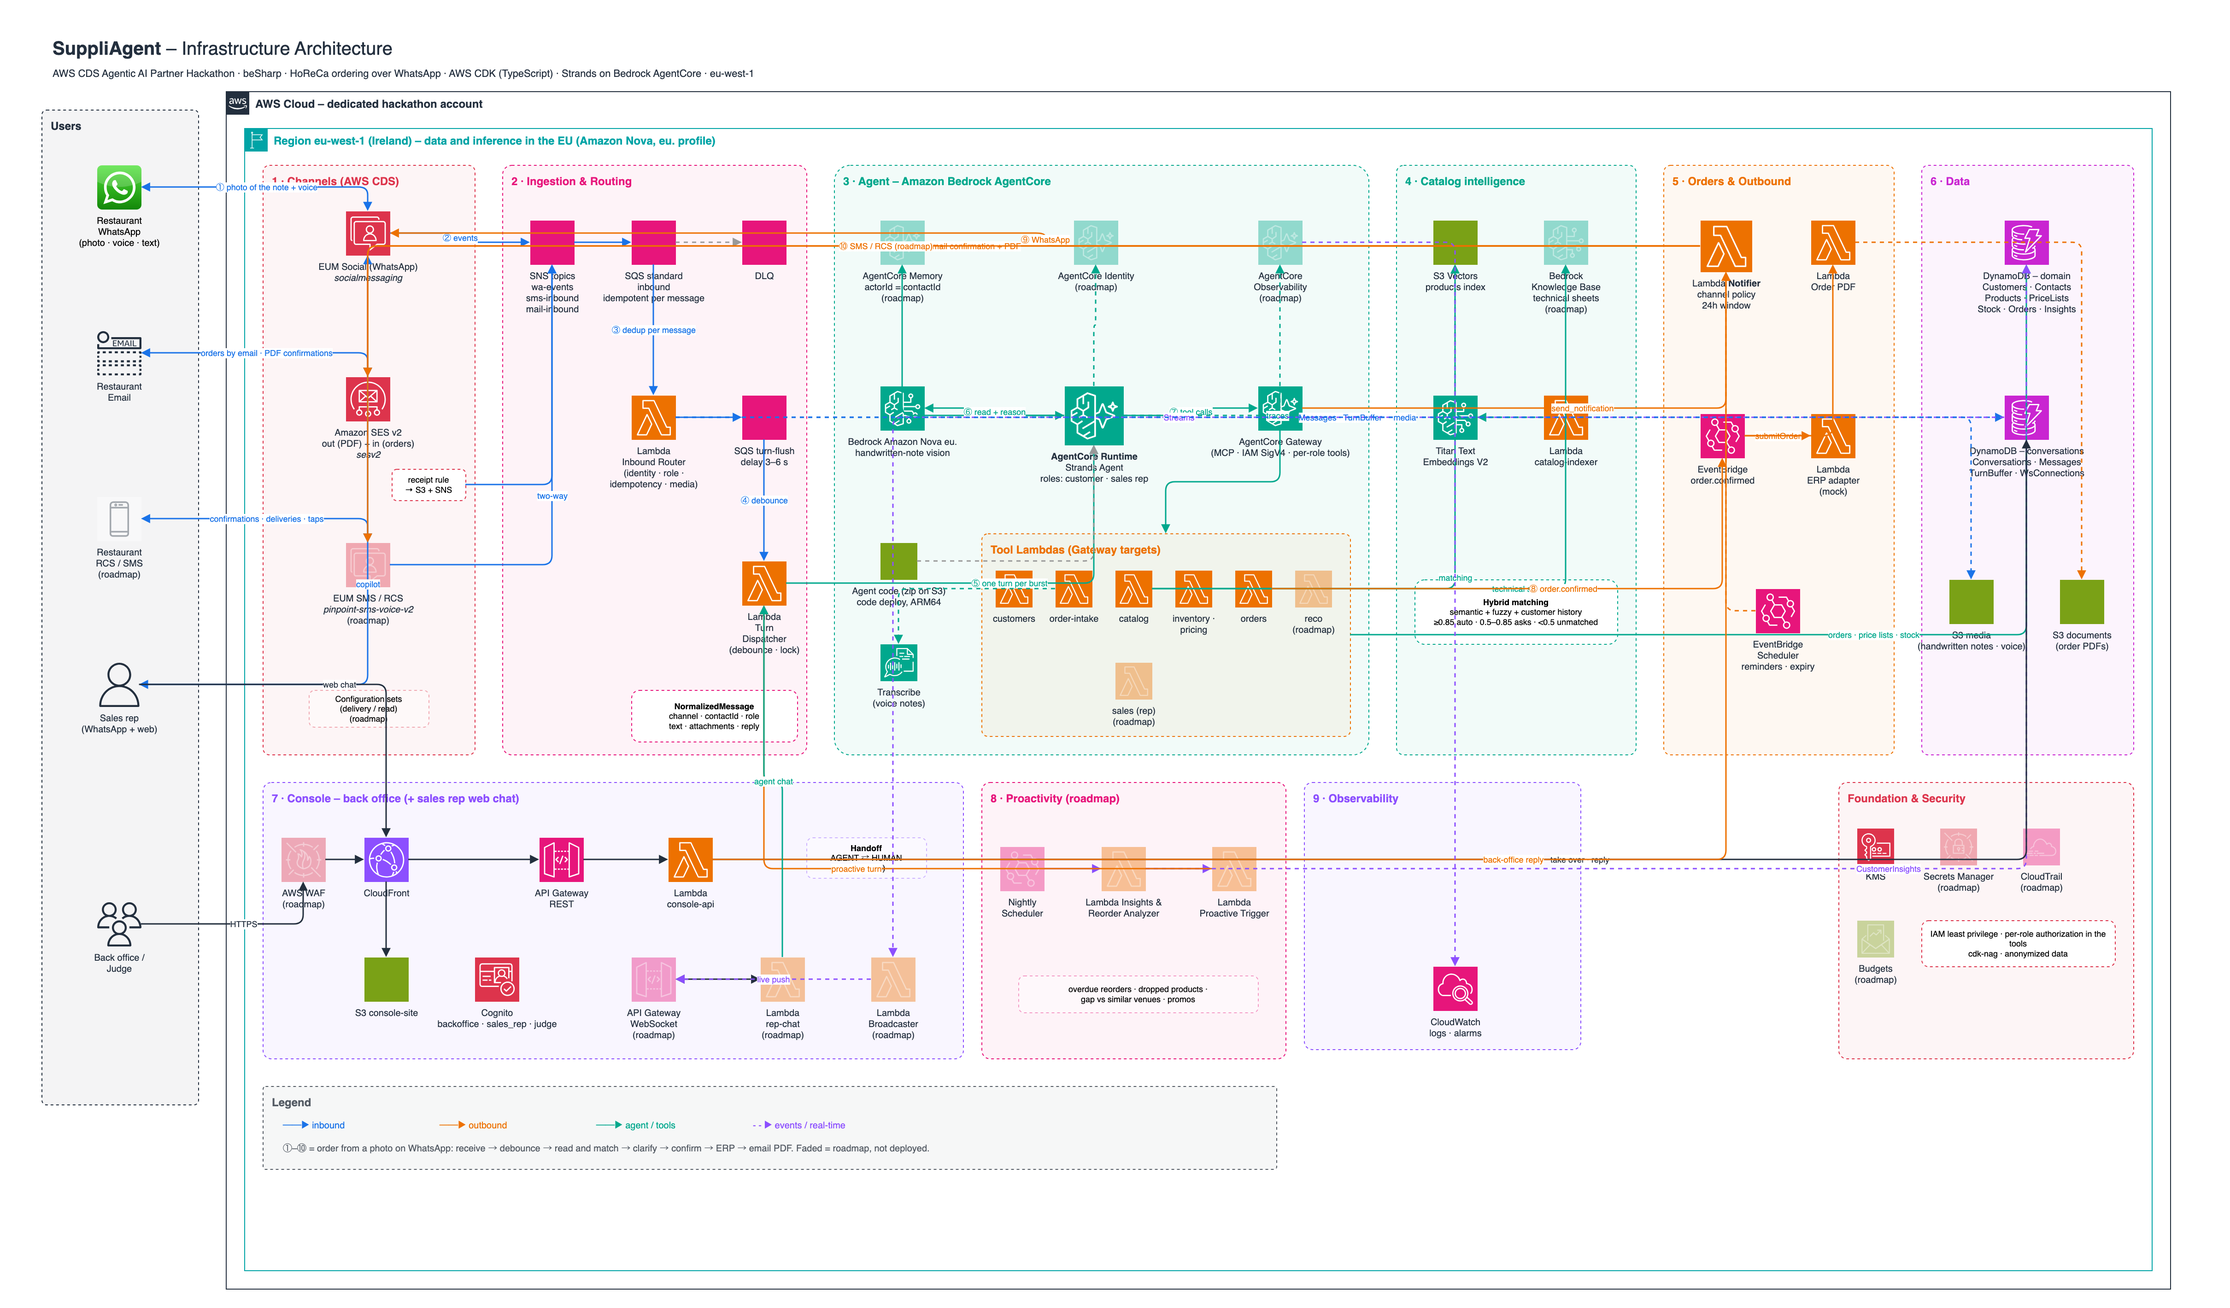
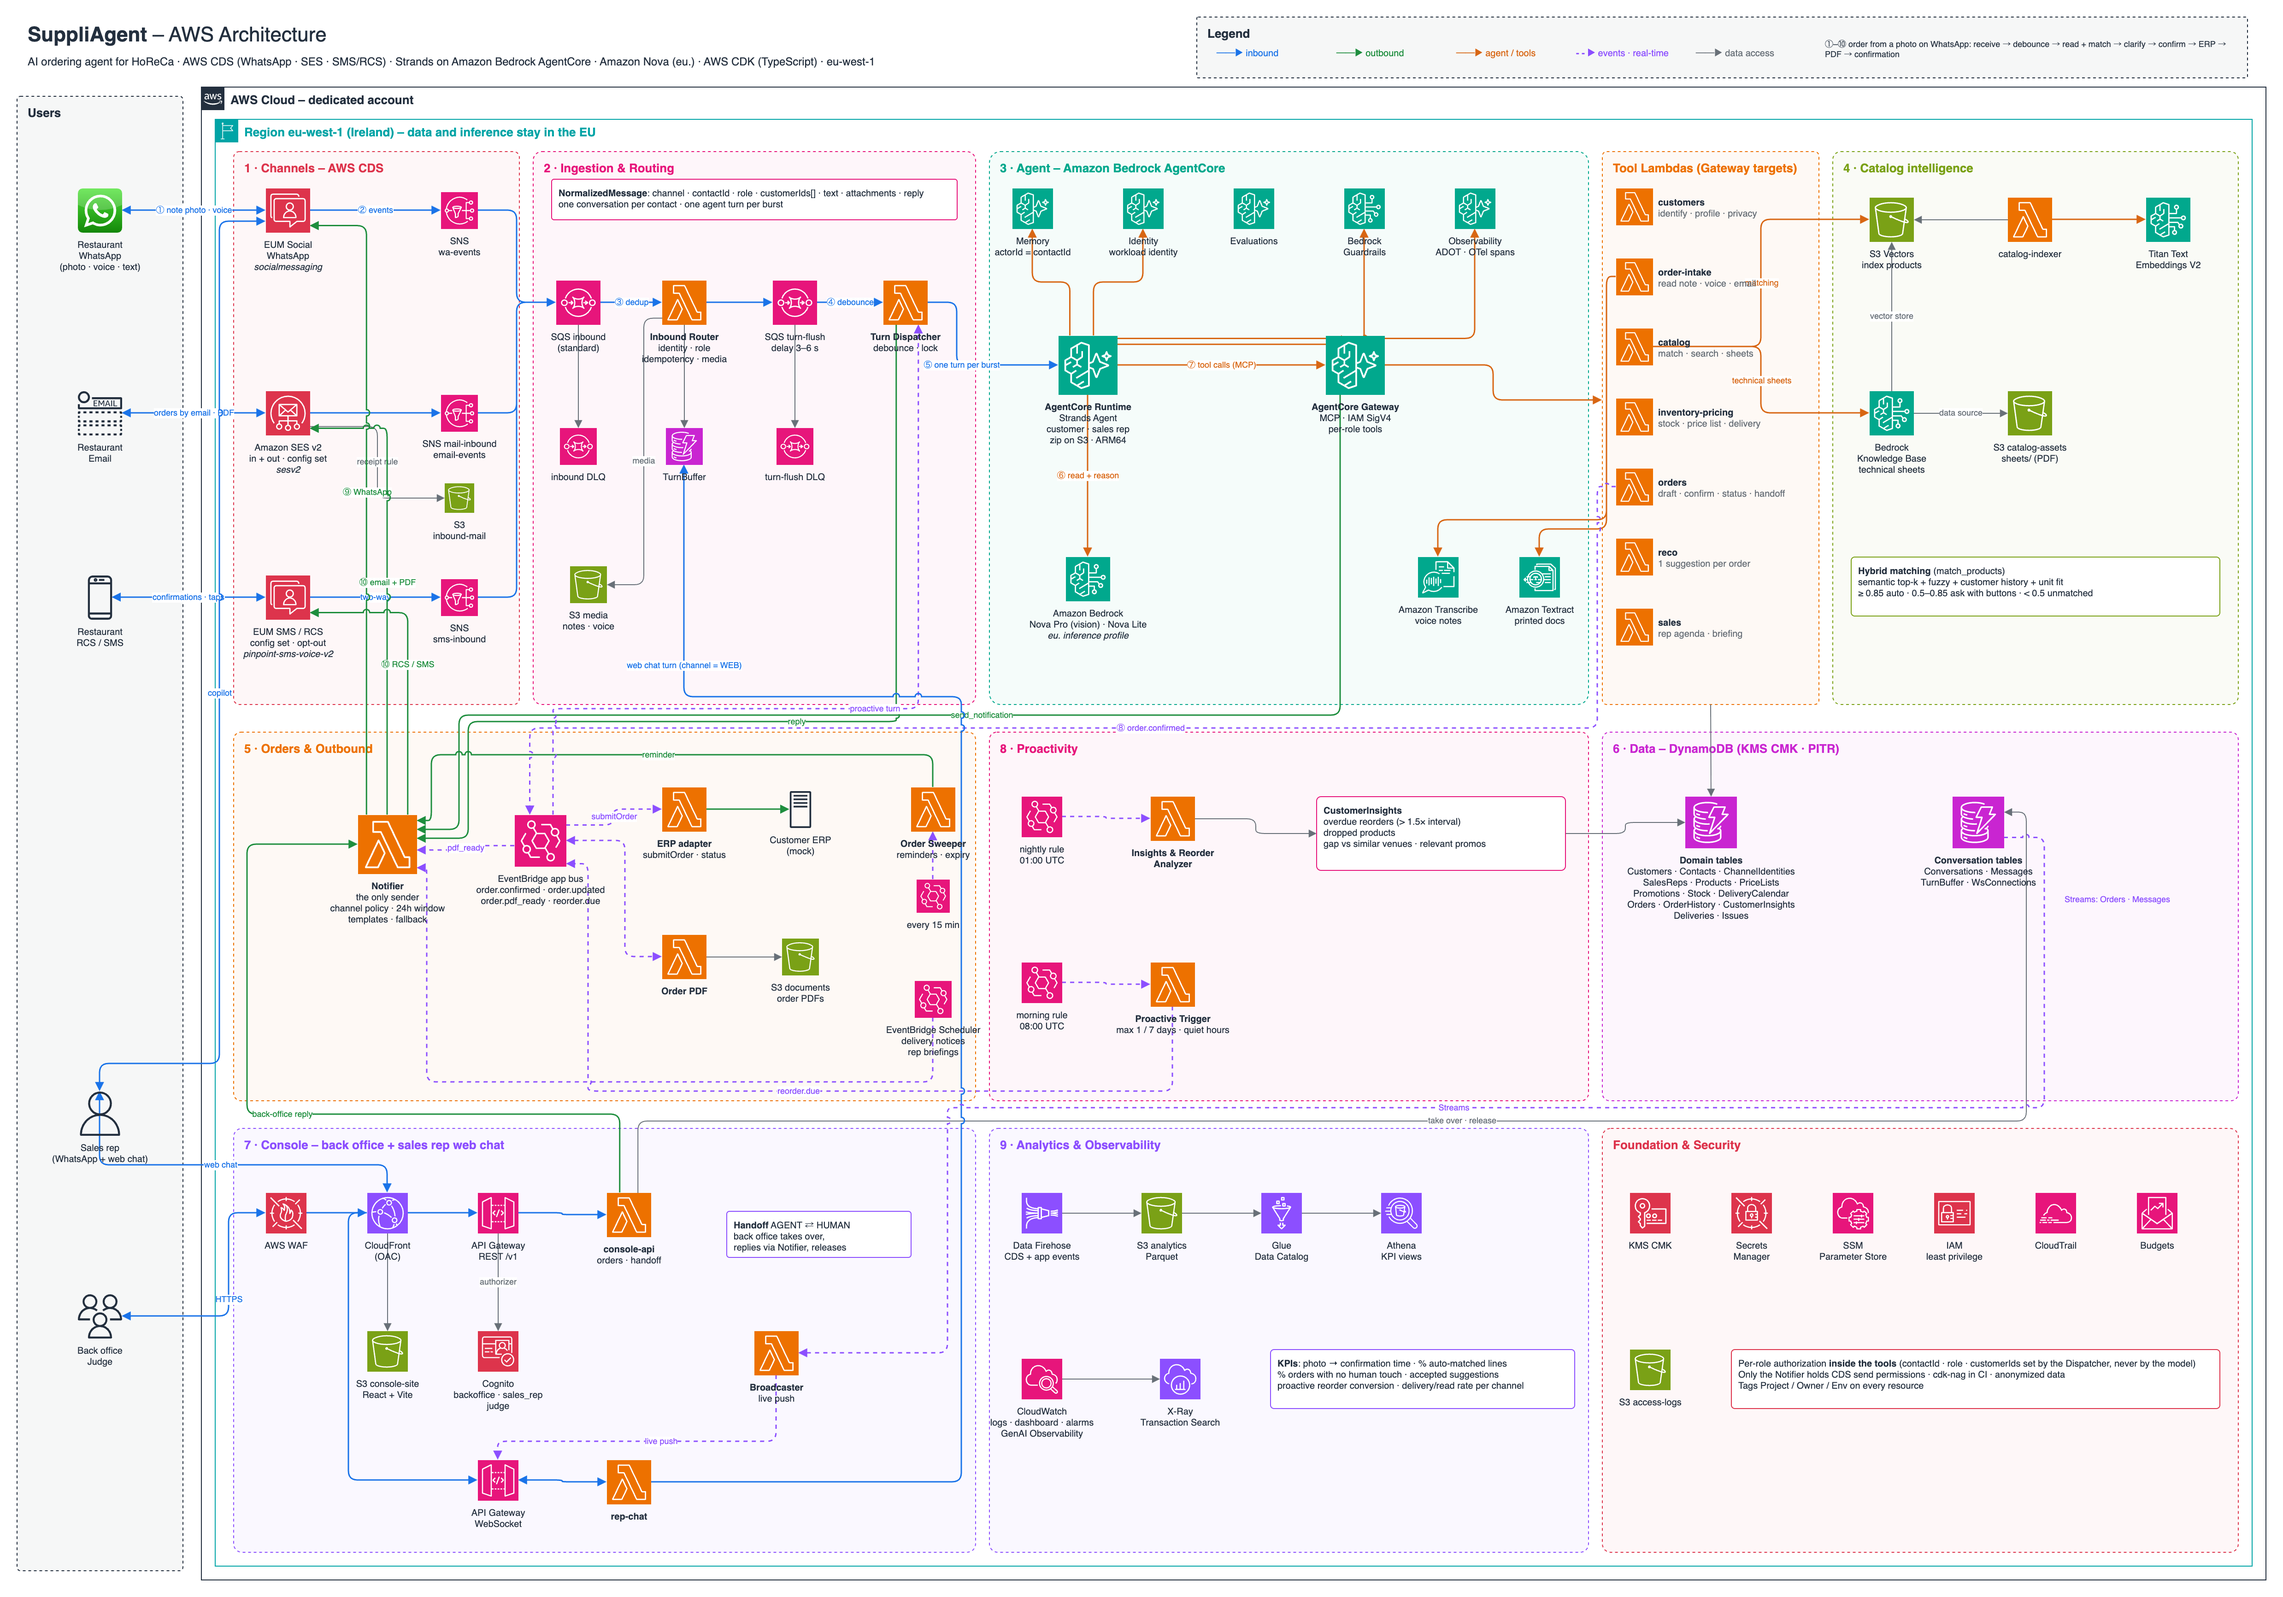
docs(architecture): redraw diagram with the full architecture (FN-01)

diff --git a/docs/README.md b/docs/README.md
@@ -9,7 +9,7 @@ Concept: [`../SUPPLIAGENT_SOLUTION.md`](../SUPPLIAGENT_SOLUTION.md)
 | 02 | [Flussi tecnici e casistiche](./02_TECHNICAL_FLOWS.md) | Stati di ordine e righe, pipeline di ingresso, flussi F-01…F-15 con tutti i casi, errori, contratti, parametri | v0.2 – da validare |
 | 03 | [Specifica funzionale](./03_FUNCTIONAL_SPEC.md) | Catalogo FN-01…FN-35, priorità MoSCoW, criteri di accettazione, NFR, mappa per stream, scenari demo | v0.2 – da validare |
 | – | [Infrastructure Design](./INFRASTRUCTURE_DESIGN.md) | Architettura AWS (eu-west-1), 9 stack CDK, catalog intelligence, dati, sicurezza, costi | v0.2 |
-| – | [architecture.drawio](./architecture.drawio) · [PNG](./architecture.png) | Diagramma architetturale (draw.io, in inglese; i componenti non ancora distribuiti sono sbiaditi). Il PNG si rigenera dal `.drawio` (aprilo in draw.io: *File → Export as → PNG*, scala 2x) | v0.3 |
+| – | [architecture.drawio](./architecture.drawio) · [PNG](./architecture.png) | Diagramma architetturale (draw.io, in inglese; architettura completa, mock inclusi, senza distinzione roadmap). Il PNG si rigenera dal `.drawio` (aprilo in draw.io: *File → Export as → PNG*, scala 2x) | v0.4 |
 | – | [SUBMISSION_TEXT.md](./SUBMISSION_TEXT.md) | Bozza dei testi Devpost in inglese (problema, soluzione, servizi AWS, uso di EUM Social/WhatsApp, impatto) con la lista delle affermazioni da verificare prima dell'invio | bozza |
 | 09 | [Testi e template](./09_CONTENT_AND_TEMPLATES.md) | Template WhatsApp (fonte: JSON nel Notifier) e invio a Meta | v0.1 |
 | – | [Iscrizione WhatsApp (WABA)](./WABA_SETUP.md) | Procedura di collegamento del numero WhatsApp ad AWS End User Messaging Social | in uso |

diff --git a/docs/SUBMISSION_TEXT.md b/docs/SUBMISSION_TEXT.md
@@ -94,5 +94,5 @@ Each line is a claim above. Keep it only if it is true on `dev` when submitting:
 - [ ] Console: orders on real data with the photo next to the lines and line correction (T-62, PR #90).
 - [ ] WhatsApp templates approved by Meta (T-29): then say "approved" and that the assistant can write first; until then keep the wording above.
 - [ ] Voice notes read through Transcribe in the demo.
-- [ ] Items faded in the diagram (roadmap): promote to solid and to the text only if deployed (handoff, copilot tools, proactivity, SMS/RCS, Memory, Observability, Guardrails, WAF, WebSocket chat, AgentCore Identity, CloudTrail, Budgets, Secrets Manager, configuration sets). After any change, regenerate `architecture.png` from the `.drawio`.
+- [ ] The diagram shows the full architecture (mocks included, nothing faded): keep the text honest about what is not on `dev` (handoff, copilot tools, proactivity, SMS/RCS, Memory, Observability, Guardrails, WAF, WebSocket chat, AgentCore Identity, CloudTrail, Budgets, Secrets Manager, configuration sets). After any change, regenerate `architecture.png` from the `.drawio`.
 - [ ] Judges' instructions (number, email, console URL and credentials, sample note) are in the README (T-10) and the text says the same.

diff --git a/README.md b/README.md
@@ -39,7 +39,7 @@ Built by [beSharp](https://www.besharp.it) for the **AWS Communication Developer
 
 ## Architecture
 
-<p align="center"><img src="docs/architecture.png" alt="SuppliAgent architecture"><br><a href="docs/architecture.drawio">docs/architecture.drawio</a> (faded components are roadmap)</p>
+<p align="center"><img src="docs/architecture.png" alt="SuppliAgent architecture"><br><a href="docs/architecture.drawio">docs/architecture.drawio</a></p>
 
 - Region **eu-west-1**; **Amazon Nova Pro** (reasoning and handwritten-note vision) on Amazon Bedrock via the **`eu.` inference profile** (data and inference stay in the EU).
 - **Strands Agents on Amazon Bedrock AgentCore** (Runtime, Memory, Gateway, Identity, Observability), Bedrock Guardrails, Bedrock Knowledge Bases, **Amazon S3 Vectors**, Amazon Transcribe.
